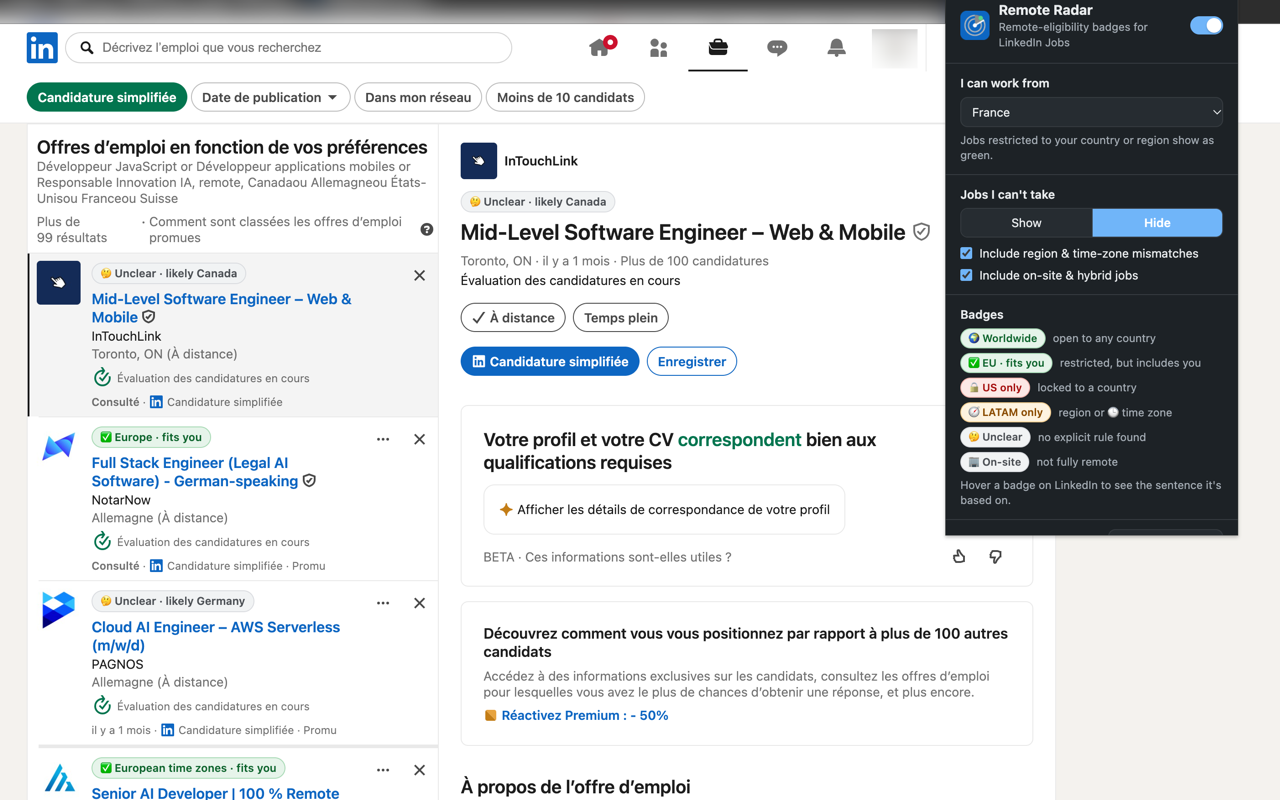
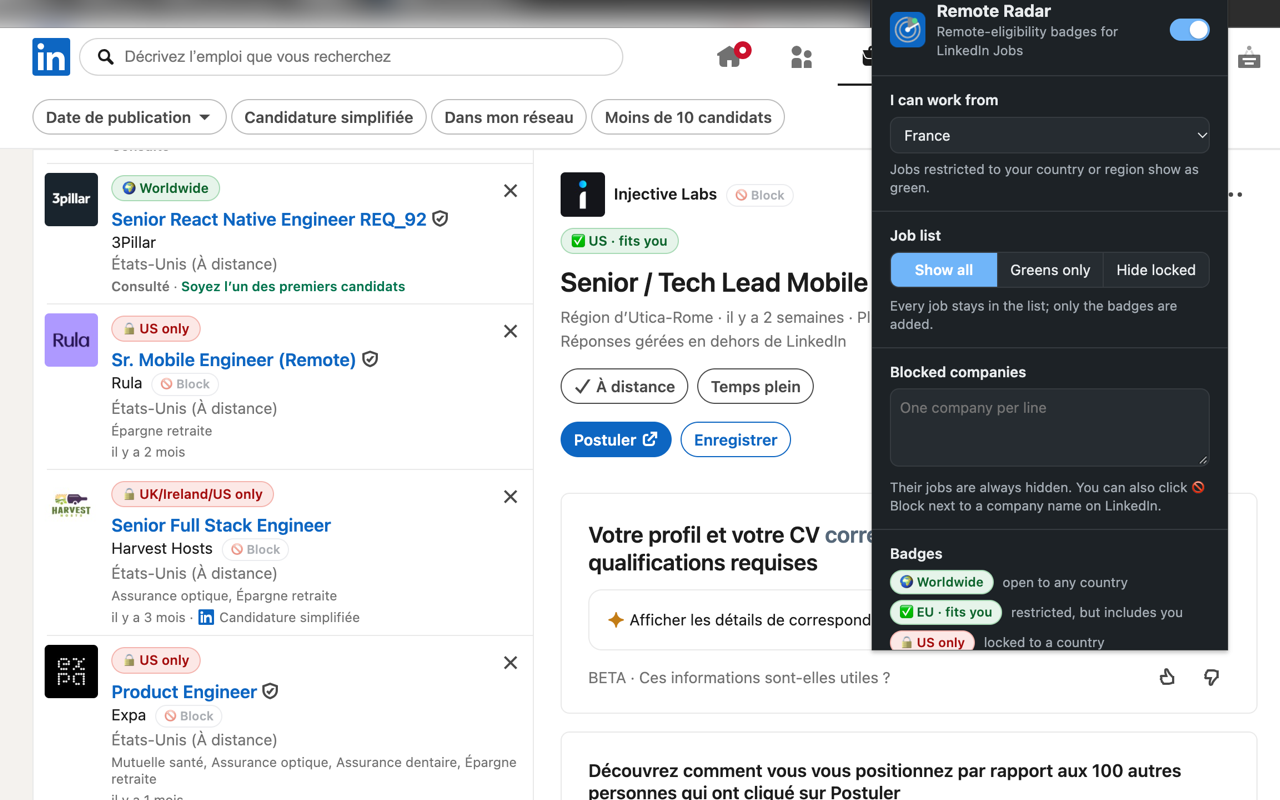
Update Store screenshots and listing for 0.4.0
- New main screenshot: job list, open job and the current settings popup
- Keep the previous popup and list-only screenshots, renamed
- Listing describes Greens only, Blocked companies and the Block link

Changed region(s): [[0.0, 0.0, 1.0, 1.0]]

diff --git a/store/listing.md b/store/listing.md
@@ -34,5 +34,5 @@ Collects no user data. Do not check any data-collection box. Certify: no sale of
 
 ## Assets to prepare
 - Icon 128×128: `icons/icon128.png` (done)
-- Screenshots 1280×800 (done): `store/screenshot-1-main-1280x800.png` (job list, open job and settings popup, the main one) and `store/screenshot-2-list-1280x800.png` (job list). Profile picture and bookmarks bar are blurred
+- Screenshots 1280×800 (done): `store/screenshot-1-main-1280x800.png` (job list, open job and the current settings popup: the main one), `screenshot-2-badges-1280x800.png` (older popup without Greens only / Blocked companies, replace before submitting if you can) and `screenshot-3-list-1280x800.png` (list only). The bookmarks bar is blurred
 - Small promo tile 440×280 (optional but recommended)
